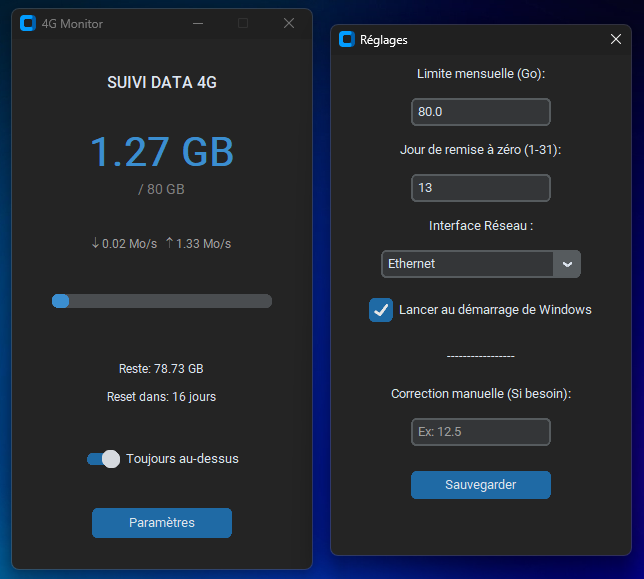
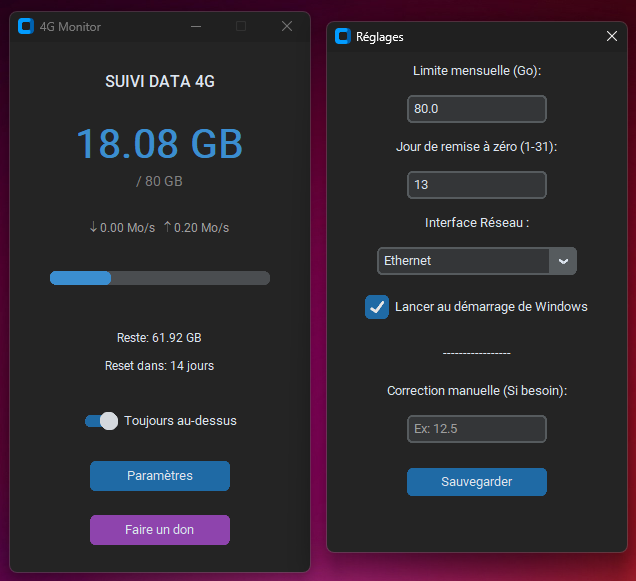
Fix 'Always on top' persistence and add Donate button

diff --git a/tracker.py b/tracker.py
@@ -22,7 +22,8 @@ class DataTracker:
             "last_save_time": time.time(),
             "offset_usage": 0.0,
             "cycle_month": datetime.now().month,
-            "selected_interface": None # None = Global (Legacy behavior)
+            "selected_interface": None, # None = Global (Legacy behavior)
+            "topmost_enabled": True
         }
 
         if os.path.exists(DATA_FILE):
